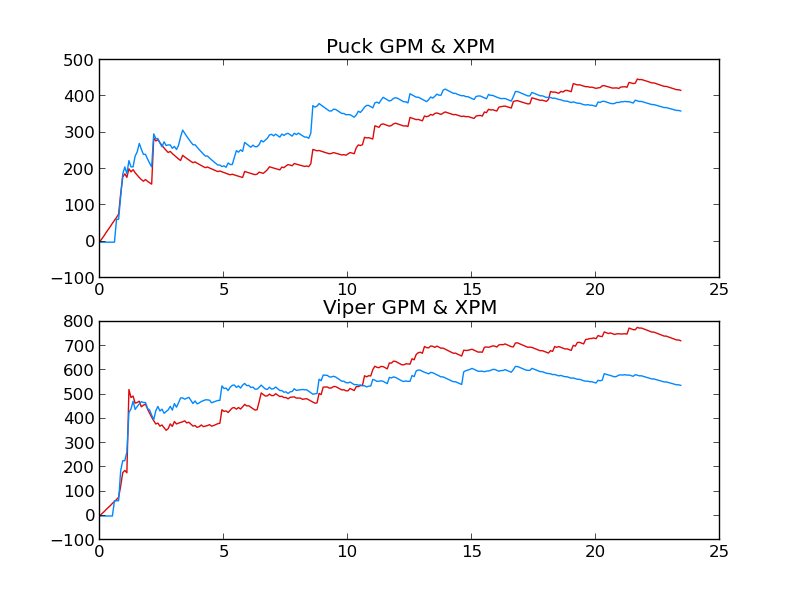
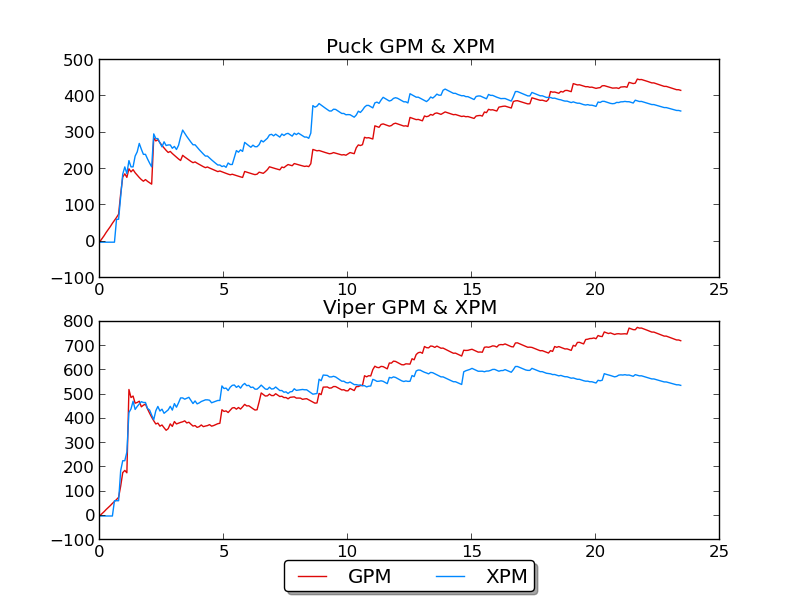
improved new example

Changed region(s): [[0.3438, 0.93, 0.6875, 1.0]]

diff --git a/examples/read_and_plot_metadata.py b/examples/read_and_plot_metadata.py
@@ -29,15 +29,17 @@ def main():
 	# plotting for puck
 	time, gpm, xpm = zip(*puck_gpm_xpm)
 	plt.subplot(2, 1, 1)
-	plt.plot(time, gpm, color = "#DE0909")	# red
-	plt.plot(time, xpm, color = "#0088FF")	# blue
+	plt.plot(time, gpm, color = "#DE0909", label = "GPM")	# red
+	plt.plot(time, xpm, color = "#0088FF", label = "XPM")	# blue
 	plt.title("Puck GPM & XPM")
 
 	# plotting for viper
 	time, gpm, xpm = zip(*viper_gpm_xpm)
 	plt.subplot(2, 1, 2)
-	plt.plot(time, gpm, color = "#DE0909")	# red
-	plt.plot(time, xpm, color = "#0088FF")	# blue
+	plt.plot(time, gpm, color = "#DE0909", label = "GPM")	# red
+	plt.plot(time, xpm, color = "#0088FF", label = "XPM")	# blue
+	plt.legend(loc='upper center', bbox_to_anchor=(0.5, -0.05),
+          fancybox=True, shadow=True, ncol=5)
 	plt.title("Viper GPM & XPM")
 
 	plt.savefig("examples/output/gpm_xpm_graph.png")
